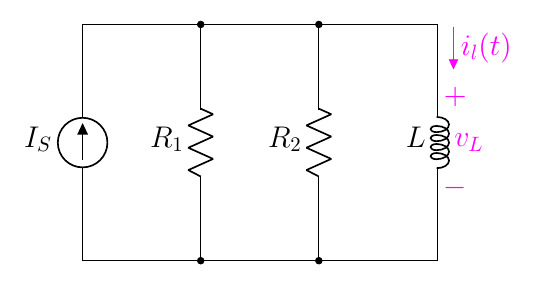
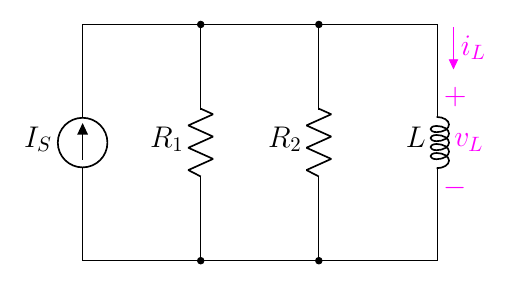
8.47

diff --git a/2.3 Driven RL/8.6 Driven RL Circuit/8.47(new).tex b/2.3 Driven RL/8.6 Driven RL Circuit/8.47(new).tex
@@ -29,7 +29,7 @@
         to[short] ++(2,0);
     %%% find %%%
     \draw[circuitikz/current arrow color=magenta](6,4)
-    to[open,f>^=$\color{magenta}{i_l(t)}$] ++(0,-2);
+    to[open,f>^=$\color{magenta}{i_L}$] ++(0,-2);
     \draw[magenta](6,3)  
         to[open,v^=$v_L$] ++(0,-2);
 \end{circuitikz}
